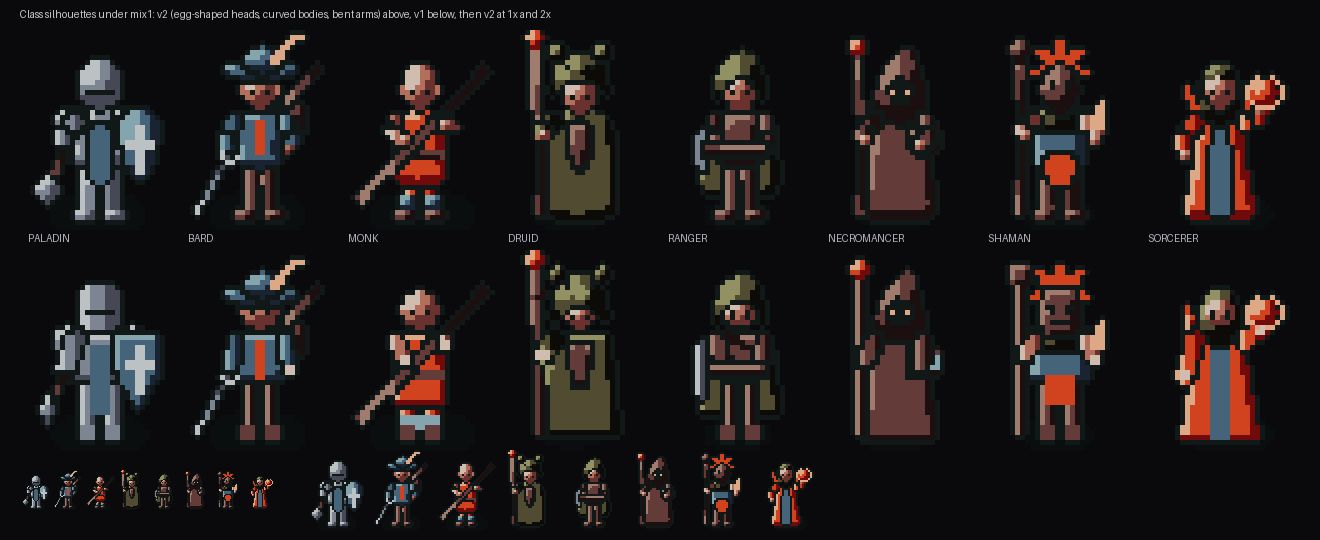
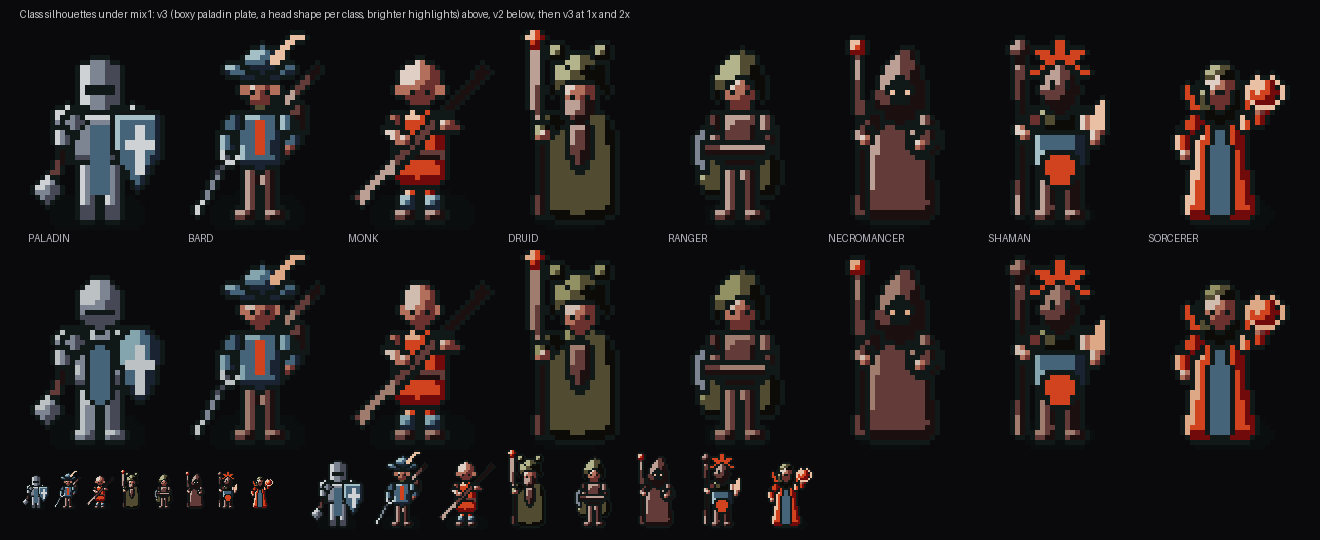
Class probes v3: boxy paladin plate, a head per class, brighter highlights (task 6.1)
Claude-Session: https://claude.ai/code/session_01FgD3VH4kM7iypAnsmJLFxK

diff --git a/art/probes/classes/base.v3.js b/art/probes/classes/base.v3.js
@@ -1,0 +1,175 @@
+// probe-classes base.v3 (r3) — from base.v2, on owner feedback: the paladin goes back to v1's boxy plate, helm and
+// shield (they suit armour) and keeps v2's mace; heads are no longer one shape: each person's head takes its own
+// width, crown, jaw and chin (the bard's long pointed face and goatee, the monk's broad round skull, the druid's
+// square bearded jaw, the sorcerer's narrow high-cheeked face). Highlights come one step brighter from mix1. Frame 32 x 40; the figure stands about 29 px, the player's 1.8 m.
+// Role ramps only (R11): skin hair cloth leather metal accent.
+export const meta = { brief: 'probe-classes', pass: 'r3', notes: 'boxy paladin plate, a head shape per class' };
+
+export function render(ctx) {
+  const { pal } = ctx.dir, [w, h] = ctx.size, s = ctx.lib.t2.scene(w, h);
+  const X = v => (v * w) / 32, Y = v => (v * h) / 40, cx = X(16);
+  const foot = Y(38), knee = Y(31), waist = Y(25), shoulder = Y(17), headY = Y(11.5);
+  const add = n => s.add(n);
+  const L = cx - X(8), R = cx + X(8); // the hands: right hand on the viewer's left, left hand on the viewer's right
+
+  // a smooth closed curve through the points (quadratics through the midpoints), so nothing has a hard corner
+  const smooth = pts => {
+    const m = (a, b) => [(a[0] + b[0]) / 2, (a[1] + b[1]) / 2], n = pts.length;
+    let d = `M${m(pts[n - 1], pts[0]).join(' ')}`;
+    for (let i = 0; i < n; i++) d += ` Q${pts[i].join(' ')} ${m(pts[i], pts[(i + 1) % n]).join(' ')}`;
+    return d + ' Z';
+  };
+  // a symmetric shape from its right side: [dx, y] from the top centre down to the bottom centre
+  const sym = (side, ox = cx) => smooth([...side.map(([dx, y]) => [ox + X(dx), y]), ...side.slice().reverse().map(([dx, y]) => [ox - X(dx), y])]);
+  const shape = (name, mat, side, extra = {}) => add({ type: 'path', name, underlay: true, mat, shade: 'normal', round: X(2), d: sym(side), ...extra });
+
+  const legs = (mat, spread = 2.4, thick = 1.6) => {
+    for (const k of [-1, 1]) add({ type: 'capsule', name: 'leg', underlay: true, mat, shade: 'cyl', a: [cx + k * X(spread - 0.6), waist], b: [cx + k * X(spread), foot - Y(1.5)], r: X(thick), r1: X(thick * 0.75) });
+  };
+  const boots = mat => add({ type: 'ellipse', name: 'boot', cx: cx - X(2.8), cy: foot - Y(1), rx: X(2), ry: Y(1.4), mat, shade: 'sphere', mirrorX: cx });
+  const neck = () => add({ type: 'capsule', name: 'neck', mat: pal.skin, shade: 'cyl', a: [cx, headY + Y(2)], b: [cx, shoulder], r: X(1.3) });
+  // a head of its own shape: `wide` the cranium's half-width, `crown` its height above the eyes, `jaw` the half-width at
+  // the jaw line, `chin` how far the chin drops below the eyes and `point` how sharp it is (0 round, 1 pointed)
+  const head = (y = headY, o = {}) => {
+    const wd = X(o.wide ?? 3.3), cr = Y(o.crown ?? 4.6), jw = X(o.jaw ?? 1.6), ch = Y(o.chin ?? 4.4), pt = o.point ?? 0.3;
+    add({ type: 'path', name: 'head', underlay: true, mat: pal.skin, shade: 'sphere',
+      d: smooth([[cx, y - cr], [cx + wd, y - cr * 0.85], [cx + wd * 0.97, y + Y(1)], [cx + jw, y + ch * 0.85], [cx + jw * (1 - pt) * 0.6, y + ch], [cx - jw * (1 - pt) * 0.6, y + ch], [cx - jw, y + ch * 0.85], [cx - wd * 0.97, y + Y(1)], [cx - wd, y - cr * 0.85]]) });
+    if (o.ears !== false) add({ type: 'ellipse', name: 'ear', cx: cx - wd, cy: y + Y(0.5), rx: X(0.8), ry: Y(1.2), mat: pal.skin, shade: 'flat', band: 1, mirrorX: cx });
+    add({ type: 'rect', name: 'eye', x: Math.round(cx - X(o.eyes ?? 2)), y: Math.round(y), w: 1, h: 1, color: o.eye ?? 'outline', mirrorX: cx });
+    add({ type: 'rect', name: 'nose', x: Math.round(cx), y: Math.round(y + Y(1.5)), w: 1, h: Math.max(1, Math.round(Y(o.nose ?? 1))), mat: pal.skin, shade: 'flat', band: 2 });
+  };
+  // an arm bent at the elbow, ending in a hand (or a gloved fist in mat)
+  const arm = (side, mat, hx, hy, opts = {}) => {
+    const sx = cx + side * X(opts.wide ?? 5), sy = shoulder + Y(1.2), ex = (sx + hx) / 2 + side * X(1.5), ey = (sy + hy) / 2 + Y(0.5), r = X(opts.r ?? 1.3);
+    add({ type: 'capsule', name: 'upper-arm', underlay: true, mat, shade: 'cyl', a: [sx, sy], b: [ex, ey], r, r1: r * 0.9 });
+    add({ type: 'capsule', name: 'forearm', underlay: true, mat, shade: 'cyl', a: [ex, ey], b: [hx, hy], r: r * 0.9, r1: r * 0.8 });
+    if (opts.hand !== false) add({ type: 'circle', name: 'hand', cx: hx, cy: hy, r: X(1.1), mat: opts.glove ?? pal.skin, shade: 'sphere' });
+  };
+  const pole = (mat, x0, y0, x1, y1, r = 0.7, name = 'pole') => add({ type: 'capsule', name, underlay: true, mat, shade: 'cyl', a: [x0, y0], b: [x1, y1], r: X(r) });
+
+  switch (ctx.state) {
+    case 'paladin': { // bulky plate, great helm, flanged mace, kite shield
+      for (const k of [-1, 1]) add({ type: 'rect', name: 'greave', underlay: true, mat: pal.metal, shade: 'bevel', x: k < 0 ? cx - X(4) : cx + X(1), y: waist, w: X(3), h: foot - waist });
+      add({ type: 'rect', name: 'sabaton', mat: pal.metal, shade: 'flat', band: 2, x: cx - X(4.2), y: foot - Y(3), w: X(3.2), h: Y(3), mirrorX: cx });
+      add({ type: 'path', name: 'plate', underlay: true, mat: pal.metal, shade: 'normal', round: X(2), d: `M${cx - X(6.5)} ${shoulder} H${cx + X(6.5)} L${cx + X(5.5)} ${waist + Y(1)} H${cx - X(5.5)} Z` });
+      add({ type: 'rect', name: 'tabard', x: cx - X(2), y: shoulder + Y(2), w: X(4), h: knee - shoulder, mat: pal.cloth, shade: 'flat', band: 1 });
+      add({ type: 'circle', name: 'pauldron', cx: cx - X(6.5), cy: shoulder + Y(1), r: X(2.6), mat: pal.metal, shade: 'sphere', mirrorX: cx, underlay: true });
+      add({ type: 'rect', name: 'helm', x: cx - X(4), y: headY - Y(5), w: X(8), h: Y(9), r: X(2), mat: pal.metal, shade: 'cyl', underlay: true });
+      add({ type: 'rect', name: 'visor', x: cx - X(3), y: headY, w: X(6), h: 1, color: 'outline' });
+      arm(-1, pal.metal, L + X(1), waist - Y(1), { r: 1.6, glove: pal.metal });
+      pole(pal.leather, L + X(1), waist - Y(1), L - X(2), waist + Y(6), 0.6, 'haft');
+      add({ type: 'star', name: 'mace', cx: L - X(2.5), cy: waist + Y(7), r: X(3), r2: X(1.8), n: 6, mat: pal.metal, shade: 'sphere', underlay: true });
+      add({ type: 'path', name: 'shield', underlay: true, mat: pal.cloth, shade: 'normal', round: X(1.5),
+        d: `M${R - X(4.5)} ${shoulder} H${R + X(4)} V${waist} L${R - X(0.25)} ${waist + Y(7)} L${R - X(4.5)} ${waist} Z` });
+      add({ type: 'rect', name: 'cross', x: R - X(0.75), y: shoulder + Y(2), w: X(1.5), h: Y(10), mat: pal.metal, shade: 'flat', band: 0 });
+      add({ type: 'rect', name: 'cross', x: R - X(3), y: shoulder + Y(5), w: X(6), h: Y(1.5), mat: pal.metal, shade: 'flat', band: 0 });
+      break;
+    }
+    case 'bard': { // slim doublet, wide feathered hat, rapier, lute on the back
+      add({ type: 'ellipse', name: 'lute', cx: R - X(2), cy: shoulder + Y(1), rx: X(3.5), ry: X(4.5), mat: pal.leather, shade: 'sphere', underlay: true });
+      pole(pal.leather, R - X(3), shoulder - Y(2), R + X(4), shoulder - Y(10), 0.7, 'lute-neck');
+      legs(pal.leather, 2, 1.4); boots(pal.leather);
+      neck();
+      shape('doublet', pal.cloth, [[0, shoulder - Y(0.5)], [4.5, shoulder], [4.8, shoulder + Y(3)], [3.4, waist - Y(1)], [5, waist + Y(2)], [0, waist + Y(2.5)]]);
+      add({ type: 'capsule', name: 'slash', a: [cx, shoulder + Y(1.5)], b: [cx, waist], r: X(0.6), mat: pal.accent, shade: 'flat', band: 1 });
+      head(headY, { wide: 2.8, crown: 4.4, jaw: 1.2, chin: 5, point: 0.8, eyes: 1.6, nose: 1.5 }); // long face, pointed chin
+      add({ type: 'path', name: 'goatee', mat: pal.hair, shade: 'flat', band: 1, d: `M${cx - X(1)} ${headY + Y(3)} Q${cx} ${headY + Y(6.5)} ${cx + X(1)} ${headY + Y(3)} Z` });
+      add({ type: 'ellipse', name: 'brim', cx, cy: headY - Y(3.5), rx: X(7), ry: Y(1.8), mat: pal.cloth, shade: 'normal', round: X(1), underlay: true });
+      add({ type: 'ellipse', name: 'crown', cx: cx + X(0.5), cy: headY - Y(5.5), rx: X(3.5), ry: Y(2.5), mat: pal.cloth, shade: 'sphere', underlay: true });
+      add({ type: 'tube', name: 'feather', pts: [[cx + X(3), headY - Y(5.5)], [cx + X(6), headY - Y(9.5)], [cx + X(10), headY - Y(10.5)]], w: X(2), w1: X(0.6), mat: pal.accent, shade: 'flat', band: 0 });
+      arm(-1, pal.cloth, L + X(2), waist);
+      pole(pal.metal, L + X(2), waist, L - X(5), foot - Y(1), 0.45, 'rapier');
+      add({ type: 'arc', name: 'guard', cx: L + X(2), cy: waist, r: X(1.8), w: X(0.8), a0: 0, a1: 200, mat: pal.metal, shade: 'flat', band: 0 });
+      arm(1, pal.cloth, R - X(2.5), waist - Y(1));
+      break;
+    }
+    case 'monk': { // bare scalp, wrapped robe with a sash, long staff held across the body
+      legs(pal.accent, 2.2, 1.7);
+      add({ type: 'ellipse', name: 'wraps', cx: cx - X(2.6), cy: foot - Y(3.5), rx: X(1.8), ry: Y(1.6), mat: pal.cloth, shade: 'sphere', mirrorX: cx });
+      boots(pal.leather);
+      neck();
+      shape('robe', pal.accent, [[0, shoulder - Y(0.5)], [4.6, shoulder], [5, shoulder + Y(4)], [4.2, waist], [6, knee - Y(1)], [0, knee]]);
+      add({ type: 'ellipse', name: 'sash', cx, cy: waist, rx: X(5), ry: Y(1.2), mat: pal.leather, shade: 'cyl', axis: 'x' });
+      head(headY, { wide: 4, crown: 5.2, jaw: 2.6, chin: 3.6, point: 0, eyes: 2.2 }); // broad round skull, wide jaw
+      pole(pal.leather, L - X(4), foot - Y(4), R + X(5), shoulder - Y(9), 0.75, 'staff');
+      arm(-1, pal.skin, cx - X(3), waist - Y(3));
+      arm(1, pal.skin, cx + X(5), shoulder + Y(2));
+      break;
+    }
+    case 'druid': { // bear-head hood and pelt to the ground, gnarled staff with a crystal
+      shape('pelt', pal.hair, [[0, shoulder - Y(1)], [6, shoulder], [7, shoulder + Y(6)], [7.5, foot - Y(3)], [6, foot - Y(0.5)], [0, foot]]);
+      shape('leaf-wrap', pal.leather, [[0, shoulder + Y(2)], [2.5, shoulder + Y(2)], [2, waist], [0, waist + Y(3)]]);
+      head(headY + Y(1), { ears: false, wide: 3.4, jaw: 2.8, chin: 3.8, point: 0, eyes: 1.8 }); // square jaw
+      add({ type: 'path', name: 'beard', mat: pal.leather, shade: 'sphere', d: smooth([[cx, headY + Y(2.5)], [cx + X(3), headY + Y(2)], [cx + X(2.5), headY + Y(6)], [cx, headY + Y(8)], [cx - X(2.5), headY + Y(6)], [cx - X(3), headY + Y(2)]]) });
+      add({ type: 'path', name: 'bear-head', underlay: true, mat: pal.hair, shade: 'sphere',
+        d: `M${cx - X(5.5)} ${headY + Y(3)} Q${cx - X(6)} ${headY - Y(7)} ${cx} ${headY - Y(7)} Q${cx + X(6)} ${headY - Y(7)} ${cx + X(5.5)} ${headY + Y(3)} Q${cx + X(4)} ${headY - Y(1)} ${cx + X(3)} ${headY - Y(1)} Q${cx} ${headY - Y(2.5)} ${cx - X(3)} ${headY - Y(1)} Q${cx - X(4)} ${headY - Y(1)} ${cx - X(5.5)} ${headY + Y(3)} Z` });
+      add({ type: 'circle', name: 'ear', cx: cx - X(4.5), cy: headY - Y(7), r: X(1.6), mat: pal.hair, shade: 'sphere', mirrorX: cx, underlay: true });
+      add({ type: 'ellipse', name: 'snout', cx, cy: headY - Y(3.5), rx: X(2), ry: Y(1.2), mat: pal.hair, shade: 'sphere' });
+      add({ type: 'rect', name: 'bear-eye', x: Math.round(cx - X(3)), y: Math.round(headY - Y(5)), w: 1, h: 1, color: 'outline', mirrorX: cx });
+      add({ type: 'tube', name: 'staff', underlay: true, mat: pal.leather, shade: 'cyl', pts: [[L, foot - Y(1)], [L + X(0.8), waist], [L - X(0.8), shoulder], [L - X(1), headY - Y(8)]], w: X(1.5), w1: X(1.1) });
+      add({ type: 'star', name: 'crystal', cx: L - X(1), cy: headY - Y(10), r: X(2.4), r2: X(1.2), n: 4, mat: pal.accent, shade: 'sphere' });
+      arm(-1, pal.hair, L + X(0.6), waist - Y(4), { r: 1.6 });
+      break;
+    }
+    case 'ranger': { // deep hood and long cloak, crossbow held across the front
+      shape('cloak', pal.hair, [[0, shoulder - Y(1)], [6, shoulder], [7.5, waist], [8, knee + Y(1)], [5, knee + Y(2.5)], [0, knee + Y(2)]]);
+      legs(pal.leather, 2.2, 1.5); boots(pal.leather);
+      shape('jerkin', pal.leather, [[0, shoulder], [4, shoulder + Y(0.5)], [3.6, waist - Y(1)], [4, waist + Y(2)], [0, waist + Y(2)]]);
+      head(headY + Y(0.5), { ears: false });
+      add({ type: 'path', name: 'hood', underlay: true, mat: pal.hair, shade: 'sphere',
+        d: `M${cx - X(5)} ${headY + Y(4)} Q${cx - X(5.5)} ${headY - Y(7)} ${cx + X(1)} ${headY - Y(7)} Q${cx + X(5.5)} ${headY - Y(5)} ${cx + X(5)} ${headY + Y(4)} Q${cx + X(3.5)} ${headY + Y(1)} ${cx + X(3)} ${headY - Y(1)} Q${cx} ${headY - Y(3.5)} ${cx - X(3)} ${headY - Y(1)} Q${cx - X(3.5)} ${headY + Y(1)} ${cx - X(5)} ${headY + Y(4)} Z` });
+      arm(-1, pal.leather, cx - X(3), waist - Y(1), { glove: pal.leather });
+      arm(1, pal.leather, cx + X(4), waist - Y(1), { glove: pal.leather });
+      add({ type: 'capsule', name: 'stock', underlay: true, mat: pal.leather, shade: 'cyl', axis: 'x', a: [cx - X(7.5), waist - Y(1)], b: [cx + X(5), waist - Y(1)], r: X(1), r1: X(0.8) });
+      add({ type: 'arc', name: 'bow', underlay: true, cx: cx - X(4.5), cy: waist - Y(1), r: X(5), w: X(1.2), a0: 120, a1: 240, mat: pal.metal, shade: 'flat', band: 1 });
+      break;
+    }
+    case 'necromancer': { // pointed deep hood, robe to the ground, a staff with an orb and an open book
+      shape('robe', pal.leather, [[0, shoulder - Y(1)], [5, shoulder], [5.5, waist - Y(2)], [7.5, foot - Y(1.5)], [5, foot], [0, foot - Y(0.5)]]);
+      add({ type: 'path', name: 'hood', underlay: true, mat: pal.leather, shade: 'sphere',
+        d: `M${cx - X(5)} ${shoulder + Y(1)} Q${cx - X(5.5)} ${headY - Y(4)} ${cx + X(2)} ${headY - Y(8)} Q${cx + X(5.5)} ${headY - Y(2)} ${cx + X(5)} ${shoulder + Y(1)} Q${cx} ${shoulder + Y(2)} ${cx - X(5)} ${shoulder + Y(1)} Z` });
+      add({ type: 'ellipse', name: 'shadow-face', cx, cy: headY + Y(0.8), rx: X(2.6), ry: Y(3.2), color: 'outline' });
+      add({ type: 'rect', name: 'eye', x: Math.round(cx - X(2)), y: Math.round(headY), w: 1, h: 1, color: 'accent.0', mirrorX: cx });
+      add({ type: 'tube', name: 'staff', underlay: true, mat: pal.leather, shade: 'cyl', pts: [[L, foot - Y(1)], [L + X(0.5), waist], [L - X(0.5), headY - Y(6)]], w: X(1.3), w1: X(1) });
+      add({ type: 'circle', name: 'orb', cx: L - X(0.5), cy: headY - Y(8), r: X(1.8), mat: pal.accent, shade: 'sphere' });
+      arm(-1, pal.leather, L + X(1), waist - Y(3), { r: 1.5, hand: true });
+      add({ type: 'path', name: 'book', underlay: true, mat: pal.leather, shade: 'bevel', d: smooth([[R - X(3), waist - Y(6)], [R, waist - Y(5)], [R, waist - Y(0.5)], [R - X(3), waist], [R - X(6), waist - Y(0.5)], [R - X(6), waist - Y(5)]]) });
+      add({ type: 'path', name: 'page', mat: pal.cloth, shade: 'flat', band: 0, d: smooth([[R - X(3), waist - Y(5)], [R - X(0.8), waist - Y(4.4)], [R - X(0.8), waist - Y(1)], [R - X(3), waist - Y(0.8)], [R - X(5.2), waist - Y(1)], [R - X(5.2), waist - Y(4.4)]]) });
+      arm(1, pal.leather, R - X(4), waist - Y(2), { r: 1.5 });
+      break;
+    }
+    case 'shaman': { // carved oval mask under a fan of feathers, fur shoulders, totem staff, flame in the open hand
+      legs(pal.leather, 2.4, 1.6); boots(pal.leather);
+      shape('tunic', pal.cloth, [[0, shoulder - Y(0.5)], [4.6, shoulder], [4.8, shoulder + Y(4)], [4.4, waist], [6, waist + Y(2.5)], [0, waist + Y(3)]]);
+      shape('apron', pal.accent, [[0, waist], [3, waist], [2.5, waist + Y(5)], [0, waist + Y(6.5)]], { shade: 'flat', band: 1 });
+      add({ type: 'ellipse', name: 'furs', cx, cy: shoulder + Y(0.5), rx: X(7), ry: Y(2.5), mat: pal.hair, shade: 'sphere', underlay: true });
+      add({ type: 'star', name: 'feathers', cx, cy: headY - Y(4), r: X(7), r2: X(3), n: 7, rot: -90, mat: pal.accent, shade: 'flat', band: 1, underlay: true });
+      add({ type: 'ellipse', name: 'mask', cx, cy: headY + Y(0.5), rx: X(3.6), ry: Y(4.8), mat: pal.leather, shade: 'sphere', underlay: true });
+      add({ type: 'ellipse', name: 'mask-eye', cx: cx - X(1.6), cy: headY - Y(0.5), rx: X(0.9), ry: Y(0.7), color: 'outline', mirrorX: cx });
+      add({ type: 'path', name: 'mask-mouth', color: 'outline', d: `M${cx - X(1.8)} ${headY + Y(2.5)} Q${cx} ${headY + Y(3.8)} ${cx + X(1.8)} ${headY + Y(2.5)} Q${cx} ${headY + Y(3)} ${cx - X(1.8)} ${headY + Y(2.5)} Z` });
+      add({ type: 'tube', name: 'totem', underlay: true, mat: pal.leather, shade: 'cyl', pts: [[L, foot - Y(1)], [L + X(0.4), waist], [L, headY - Y(6)]], w: X(1.4), w1: X(1.2) });
+      add({ type: 'ellipse', name: 'totem-head', cx: L, cy: headY - Y(7.5), rx: X(1.9), ry: Y(2.4), mat: pal.leather, shade: 'sphere' });
+      arm(-1, pal.skin, L + X(1), waist - Y(4));
+      arm(1, pal.skin, R - X(1), waist - Y(3));
+      add({ type: 'path', name: 'flame', mat: pal.accent, shade: 'flat', band: 0,
+        d: `M${R - X(2.5)} ${waist - Y(5)} Q${R - X(1)} ${waist - Y(10)} ${R + X(0.5)} ${waist - Y(12)} Q${R + X(1)} ${waist - Y(8)} ${R + X(0.5)} ${waist - Y(5)} Z` });
+      break;
+    }
+    case 'sorcerer': { // long flared robe with a high spiked collar, loose hair, an orb raised in the open hand
+      shape('robe', pal.accent, [[0, shoulder - Y(0.5)], [4.6, shoulder], [4.6, waist - Y(2)], [7, foot - Y(2)], [7.5, foot - Y(0.5)], [0, foot]]);
+      shape('under-robe', pal.cloth, [[0, shoulder + Y(3)], [1.5, shoulder + Y(3)], [2.5, foot - Y(1)], [0, foot - Y(0.5)]], { shade: 'flat', band: 1 });
+      add({ type: 'ellipse', name: 'hair', cx, cy: headY + Y(1.5), rx: X(4), ry: Y(5.8), mat: pal.hair, shade: 'sphere', underlay: true });
+      head(headY, { ears: false, wide: 2.7, crown: 4.8, jaw: 1.1, chin: 4.6, point: 0.5, eyes: 1.4 }); // narrow, high cheeks
+      add({ type: 'rect', name: 'cheek', x: Math.round(cx - X(2.5)), y: Math.round(headY + Y(1.5)), w: 1, h: 1, mat: pal.skin, shade: 'flat', band: 2, mirrorX: cx });
+      add({ type: 'path', name: 'fringe', mat: pal.hair, shade: 'sphere', d: `M${cx - X(3.6)} ${headY - Y(1)} Q${cx - X(3)} ${headY - Y(5)} ${cx} ${headY - Y(5)} Q${cx + X(3)} ${headY - Y(5)} ${cx + X(3.6)} ${headY - Y(1)} Q${cx + X(1)} ${headY - Y(3)} ${cx - X(3.6)} ${headY - Y(1)} Z` });
+      add({ type: 'path', name: 'collar', underlay: true, mat: pal.accent, shade: 'bevel', mirrorX: cx, d: `M${cx - X(3.5)} ${shoulder + Y(1)} Q${cx - X(7)} ${shoulder - Y(2)} ${cx - X(7.5)} ${shoulder - Y(8)} Q${cx - X(5)} ${shoulder - Y(3)} ${cx - X(3.5)} ${shoulder + Y(1)} Z` });
+      arm(-1, pal.accent, L + X(1), waist, { r: 1.6 });
+      arm(1, pal.accent, R, shoulder - Y(1), { r: 1.6 });
+      add({ type: 'circle', name: 'orb', cx: R + X(1), cy: shoulder - Y(4.5), r: X(2.6), mat: pal.accent, shade: 'sphere' });
+      add({ type: 'ring', name: 'orb-halo', cx: R + X(1), cy: shoulder - Y(4.5), r: X(3.8), w: X(0.6), color: 'accent.0' });
+      break;
+    }
+    default: head();
+  }
+  return ctx.lib.proc(s).add('groundShadow', {}).render();
+}

diff --git a/docs/14-art-direction.md b/docs/14-art-direction.md
@@ -43,7 +43,7 @@ The owner asked for more variety in the character shapes, with a reference sheet
 - **The character frame grows from 24 x 32 to 32 x 40,** so hats, feathers, staffs and shields fit beside a figure that stays about 29 px (1.8 m) tall.
 - **A new rule:** give every class its own silhouette by body covering, headgear and held item. Reviewers check it, and batch 2's roster review compares silhouettes.
 
-The owner then asked for more human heads and less square, more organic shapes. `base.v2.js` of the class probe answers it: egg-shaped heads with a round cranium, a narrower jaw, ears, a nose shadow and a neck; every body, robe, cloak, helm, hood, mask and shield drawn as a smooth curve, with tapered legs and arms bent at the elbow. `mix1` gains the matching rules: human, egg-shaped heads and organic curved bodies (do), and no square or boxy bodies, heads or robes (don't). The lineup sheet shows v2 above v1.
+The owner then asked for more human heads and less square, more organic shapes. `base.v2.js` of the class probe answers it: egg-shaped heads with a round cranium, a narrower jaw, ears, a nose shadow and a neck; every body, robe, cloak, helm, hood, mask and shield drawn as a smooth curve, with tapered legs and arms bent at the elbow. `mix1` gains the matching rules: human, egg-shaped heads and organic curved bodies (do), and no square or boxy bodies, heads or robes (don't). The owner's third note asked for v1's boxy armour on the paladin with v2's mace, a different head shape for each class, and highlights one step brighter. `base.v3.js` answers it: the paladin wears v1's plate, great helm and shield; heads take their own width, crown, jaw and chin (the bard a long face with a pointed chin and goatee, the monk a broad round skull, the druid a square bearded jaw, the sorcerer a narrow face with high cheekbones); and `mix1` lifts the lightest colour of every ramp except the floor's, so highlights are brighter while floors stay low in contrast. The lineup sheet shows v3 above v2 (v2 in the earlier palette).
 
 ## For the owner
 
